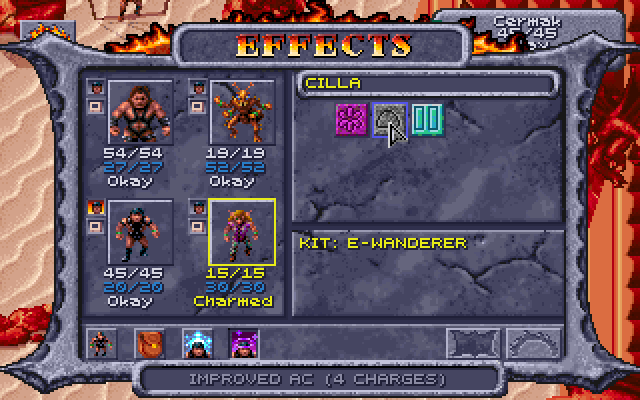
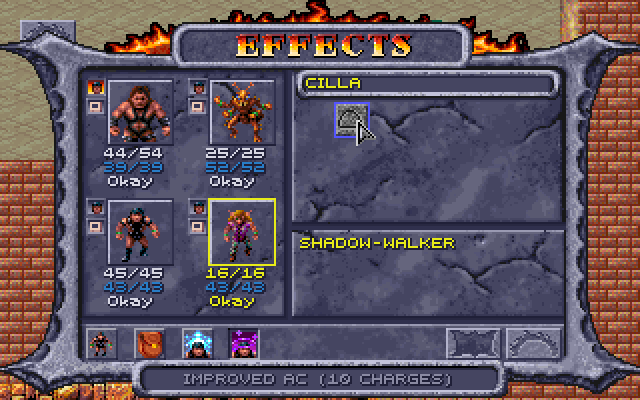
effects-charges.png retaken: Cilla's SHADOW-WALKER on the Effects screen, Armor's 10 charges under the pointer
Claude-Session: https://claude.ai/code/session_01MpsiU94Q7CT44DgXwo8K6K

diff --git a/obsidian-edition/FEATURES.md b/obsidian-edition/FEATURES.md
@@ -424,7 +424,7 @@ in its lower panel and under the pointer:
 - **A click on a spell's icon** no longer ends it: [Spells on the Effects
   screen](#spells-on-the-effects-screen).
 
-![The Effects screen for Cilla: the pointer on Armor's icon, and IMPROVED AC (4 CHARGES) at the foot](docs/effects-charges.png)
+![The Effects screen for Cilla: the pointer on Armor's icon, and IMPROVED AC (10 CHARGES) at the foot; her own feature, SHADOW-WALKER, beside it](docs/effects-charges.png)
 
 How it works: [DEVELOPMENT-CONTENT.md](DEVELOPMENT-CONTENT.md#the-games-spells).
 
